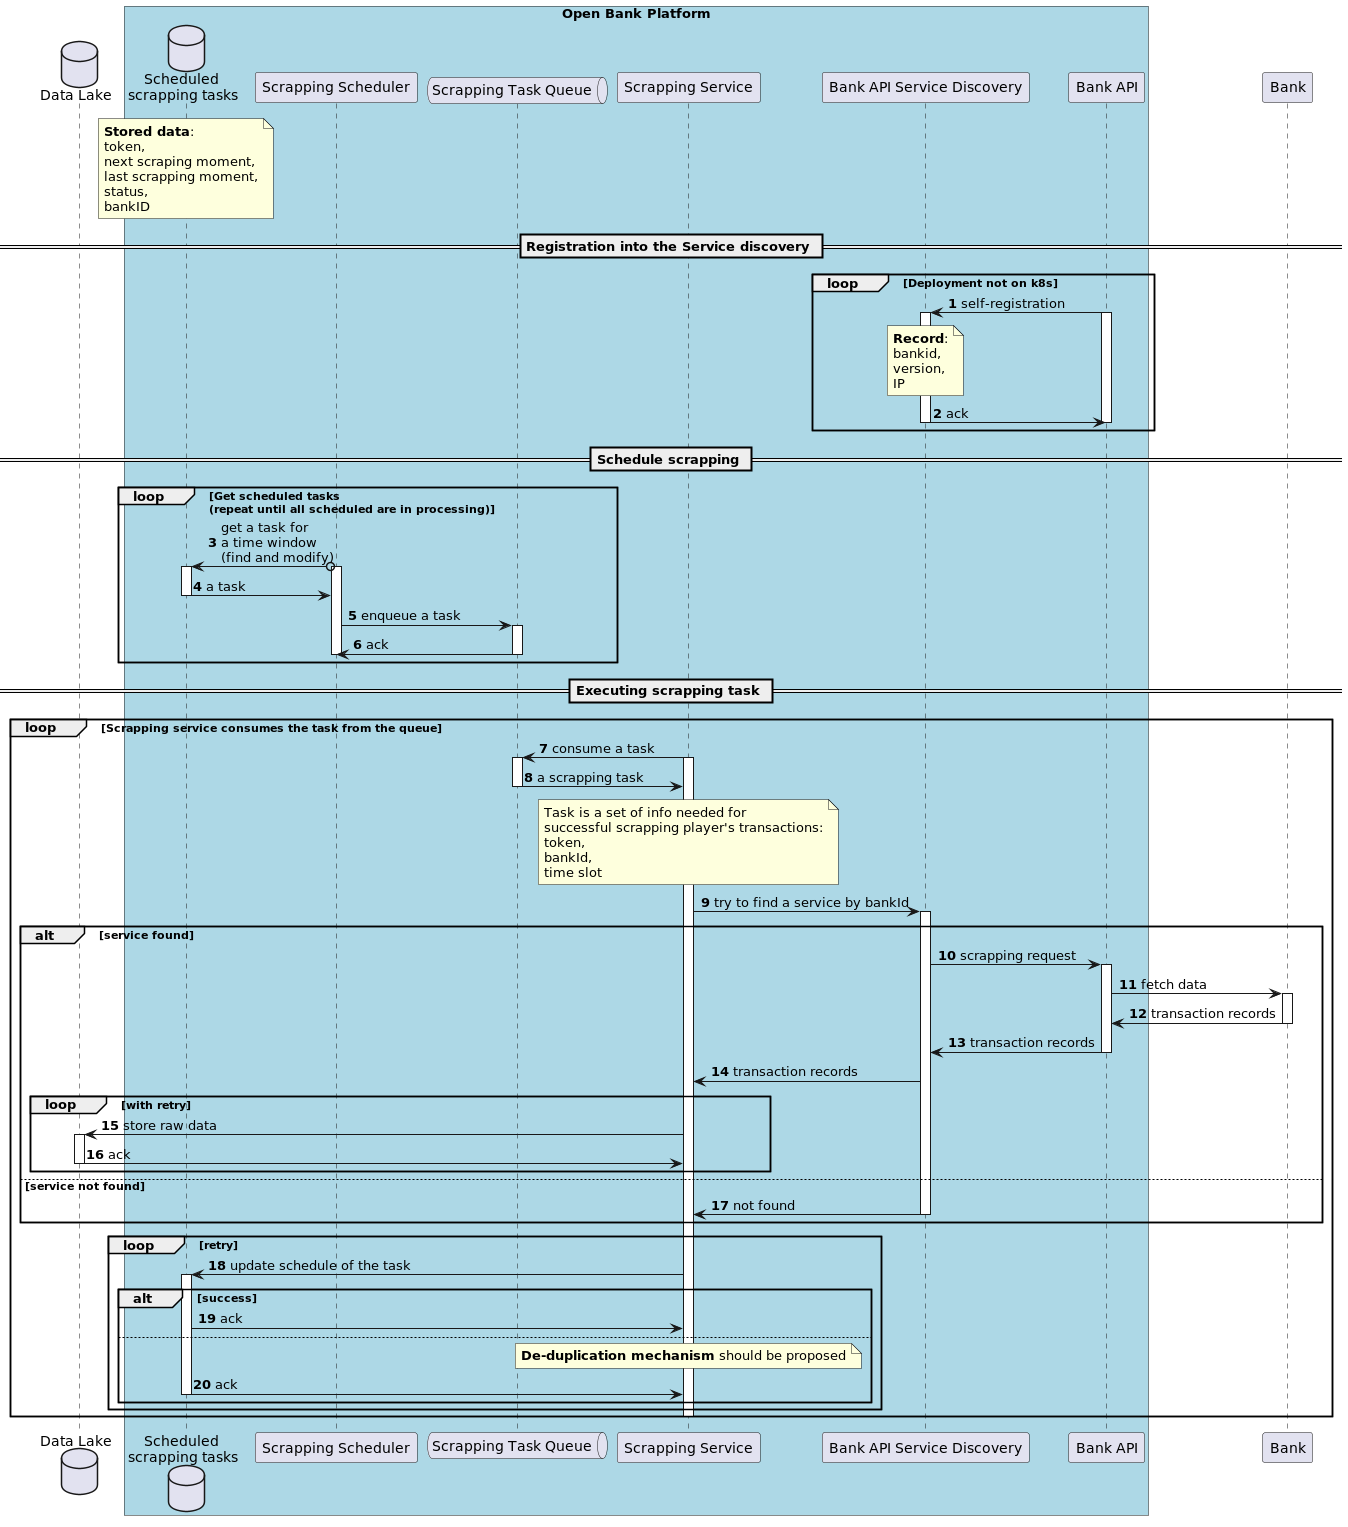
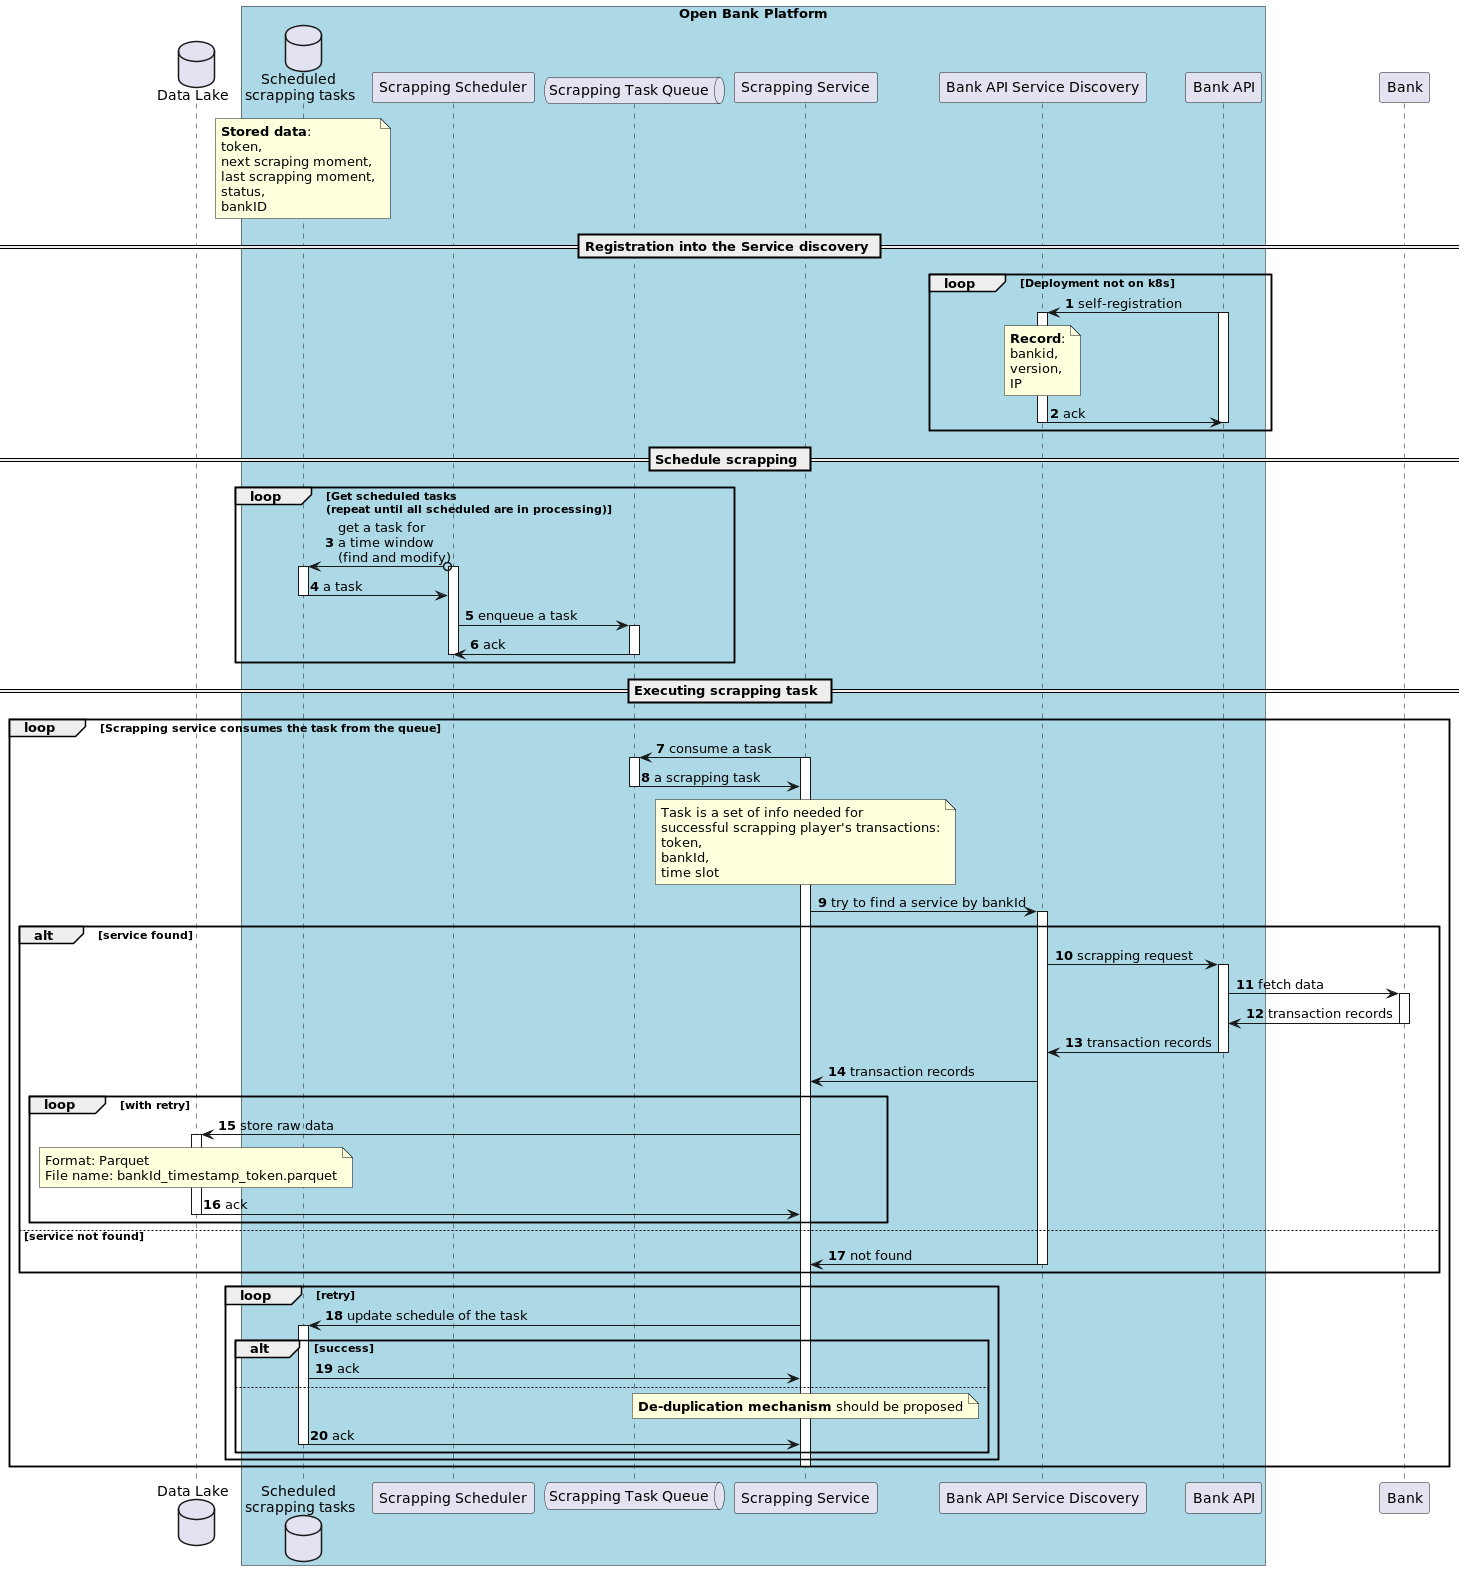
Data transforming - start

Changed region(s): [[0.0, 0.0, 0.997, 1.0], [0.9347, 0.0308, 0.9659, 0.0923]]

diff --git a/README.md b/README.md
@@ -48,6 +48,10 @@ Hypothesis: Scheduled data scrapper + ETL
 Hypothesis: Data Lake for weakly structured data
 ```
 
+```
+Hypothesis: Vector database for storing embedings.
+```
+
 ## 4. Preliminary requirements
 
 ### 4.1. Multiple bank account
@@ -108,7 +112,24 @@ Thus, most operation will be made in **2-3 hours per day**.
 
 Let's assume 200 bytes.
 
+#### 4.3.2. Total players
+
+Let's assume up to 20M players.
+
 ## 5. The back-of-envelop calculation
+
+| Metric                                                 | Unit                    | Value | Comment |
+|--------------------------------------------------------|-------------------------|-------|---------|
+| Total players                                          | persons per months      | 20M   |         | 
+| Total deposit transactions                             | transactions per month  | 3B    |         |
+| Total withdraw transactions                            | transactions per months | 40M   |         | 
+| Data Lake capacity (+30%)                              | PB per month            | 1.5   |         |
+| Data Lake capacity (+30%)                              | PB per year             | 18    |         |
+| Embedding size (25 features x 4 bytes)                 | Bytes                   | 100   |         | 
+| Total embeddings                                       | record                  | 20M   |         |
+| Vector DB capacity (+30%)                              | GB per year             | 240   |         | 
+| Scrapping (replication) throughput (Bank -> Data Lake) | GB per second           | 4.63  |         | 
+| Vector database throughput                             | MB per second           | 2.8   |         | 
 
 ## 6.Architectural design
 
@@ -136,18 +157,38 @@ ELT takes a slightly different approach:
 - **Load** - Instead of transforming it immediately, raw data is directly loaded into the target system.
 - **Transform** - Transformations take place within the data warehouse.
 
-##### 6.1.1.2. Comparison of ETL and ELT
+**ELT is more suitable** for the project due to:
 
-| Approach  | ETL | ELT |
-|-----------|-----|-----|
-| Pros      |     |     |
-| Cons      |     |     |
+- **Flexibility** - As raw data is loaded first, businesses can decide on the transformation logic later, offering the
+  ability to adapt as requirements change.
+- **Efficiency** - Capitalizing on the robust power of modern cloud warehouses, transformations are faster and more
+  scalable.
+- **Suitability for large datasets** - ELT is generally more efficient for large datasets as it leverages the power of
+  massive parallel processing capabilities of cloud data warehouses.
 
 ### 6.2. Basic flows
 
-#### 6.2.1. Scrapping (replication) flows
+#### 6.2.1. Scrapping (extracting and loading) flows
+
+replication
+The main goal of this step is to collect raw data from integrated banks and store it in the Data Lake, enriched with
+Open Banking Platform metadata.
 
 ![Scrapping flow](/umls/images/diagram_data_scrapping.png)
+
+The comparison of the data format for Data Lake:
+
+| Options                  | Avro  | Parquet | ORC    |
+|--------------------------|-------|---------|--------|
+| Schema evolution support | Best  | Good    | Better |
+| Compression of files     | Good  | Better  | Best   |
+| Splittability support    | Good  | Good    | Best   |
+| Row/ Column based        | Row   | Column  | Column |
+| Read/Write intensive     | Write | Read    | Write  |
+
+Considering that the mechanism for converting raw data into embeddings/vectors may change over time, Parquet is a better choice because it is designed to be read-intensive.
+
+#### 6.2.2. Transforming flows
 
 ## 6.3. Monitoring, metrics and alerting
 
@@ -230,7 +271,11 @@ Collecting and analyzing logs to track app behavior, diagnose issues, and troubl
 Monitoring for suspicious activities, potential intrusions, and vulnerabilities to protect the app from security
 threats.
 
-Please, follow [NIST SP 800-171](https://csrc.nist.gov/pubs/sp/800/171/r2/upd1/final) recommendations in security monitoring.
+Please, follow [NIST SP 800-171](https://csrc.nist.gov/pubs/sp/800/171/r2/upd1/final) recommendations in security
+monitoring.
+
+## 7. High-Level Architectural Design
+
 
 
 
